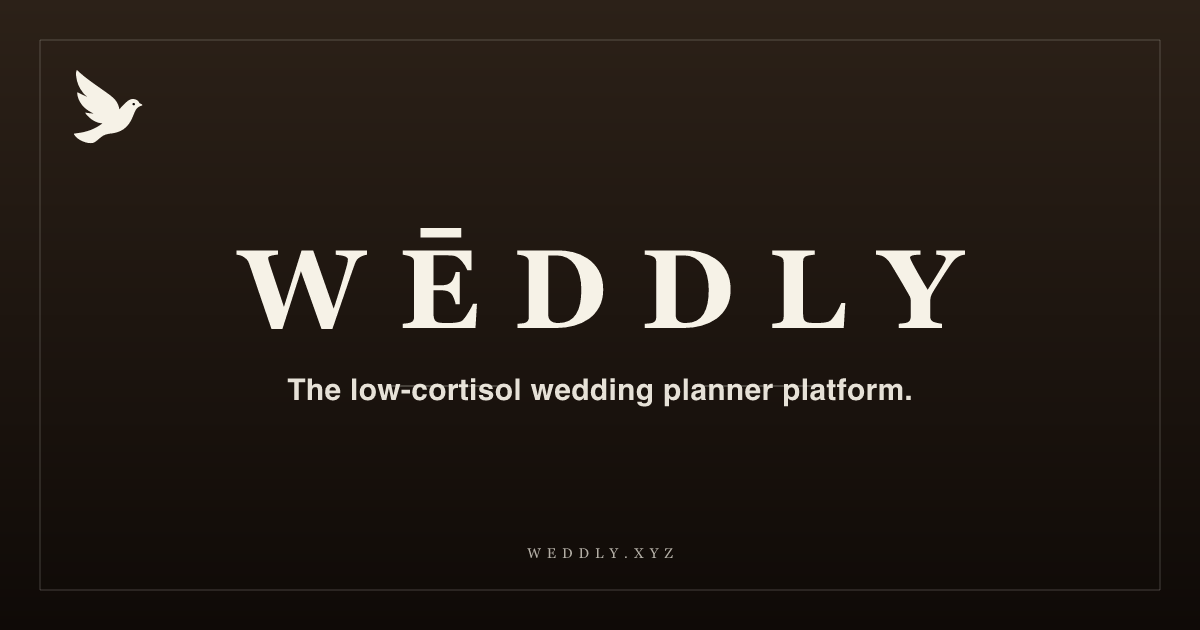
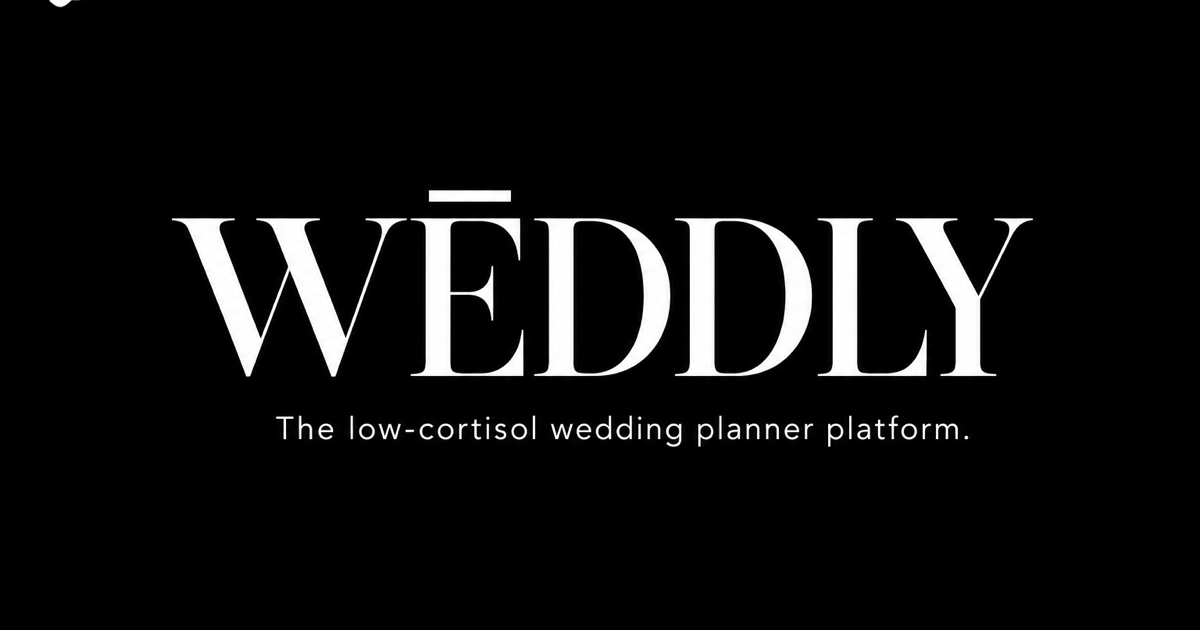
feat: update social preview image to branded black wordmark card
Replace og.png with the new ChatGPT-generated 1200x630 card — black background,
serif Wēddly wordmark, dove logo, and "The low-cortisol wedding planner platform."
tagline. Update og:image:alt to match.

diff --git a/frontend/index.html b/frontend/index.html
@@ -46,7 +46,7 @@
     <meta property="og:image:type" content="image/png" />
     <meta property="og:image:width" content="1200" />
     <meta property="og:image:height" content="630" />
-    <meta property="og:image:alt" content="Wēddly — közösen tervezzétek az esküvőtöket, nyugodtan." />
+    <meta property="og:image:alt" content="Wēddly — The low-cortisol wedding planner platform." />
     <meta name="twitter:card" content="summary_large_image" />
     <meta name="twitter:title" content="Wēddly · Közös esküvőtervezés egy helyen" />
     <meta
